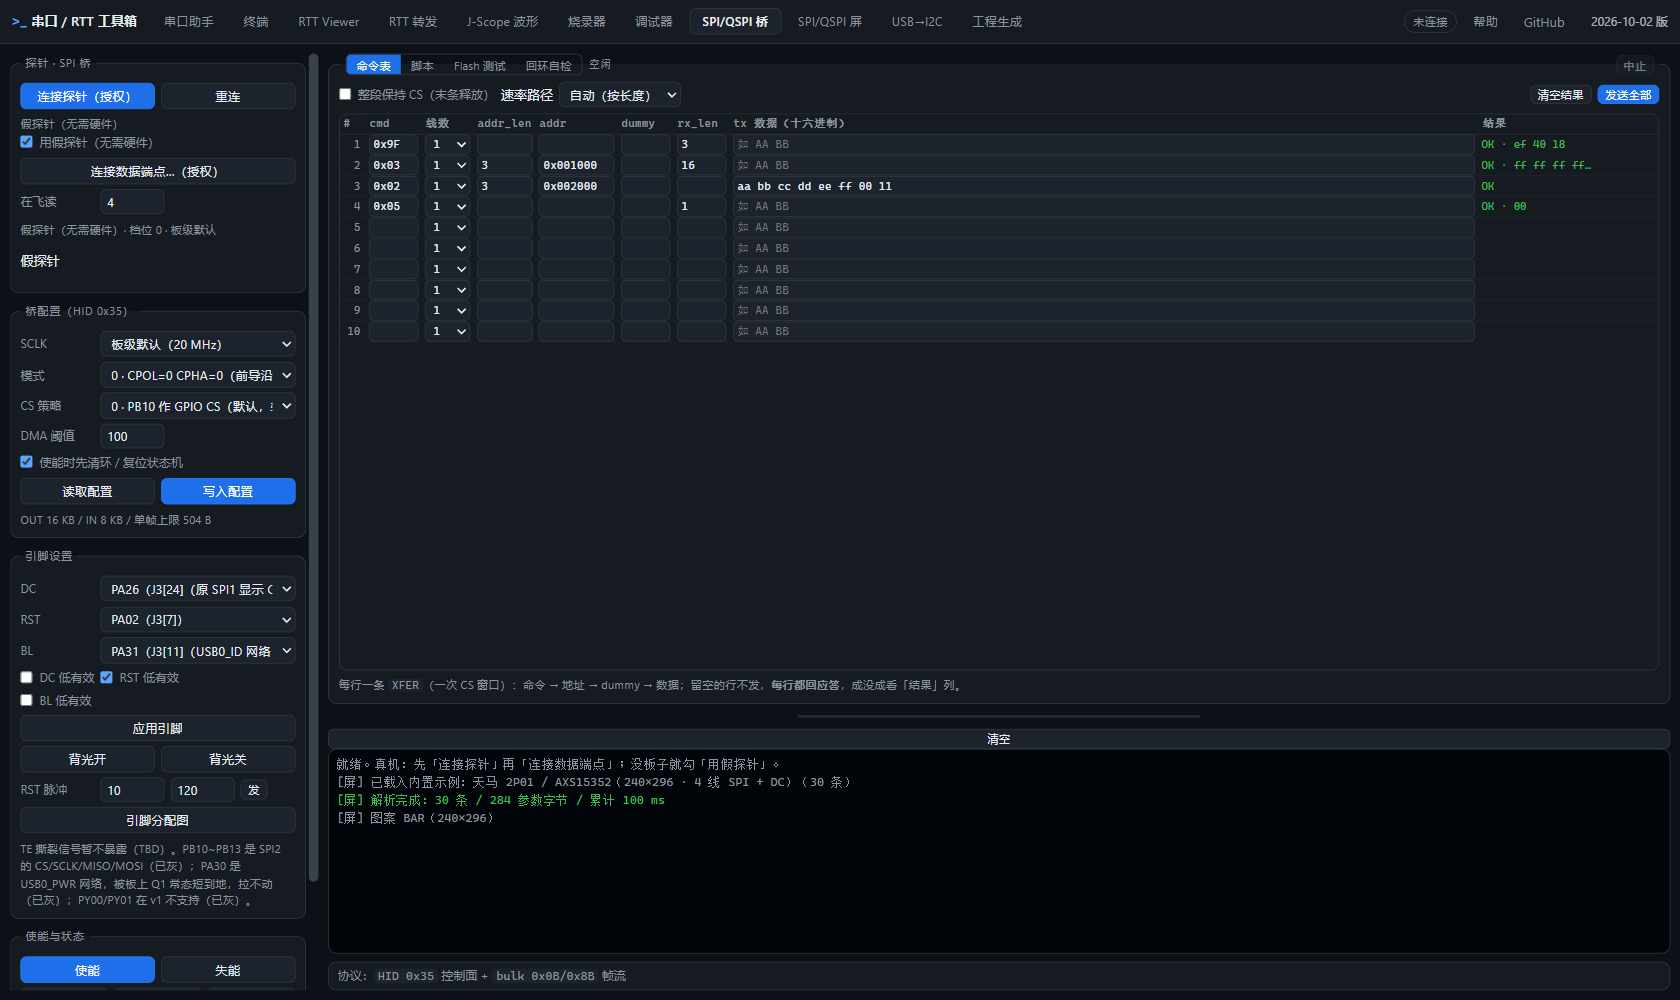
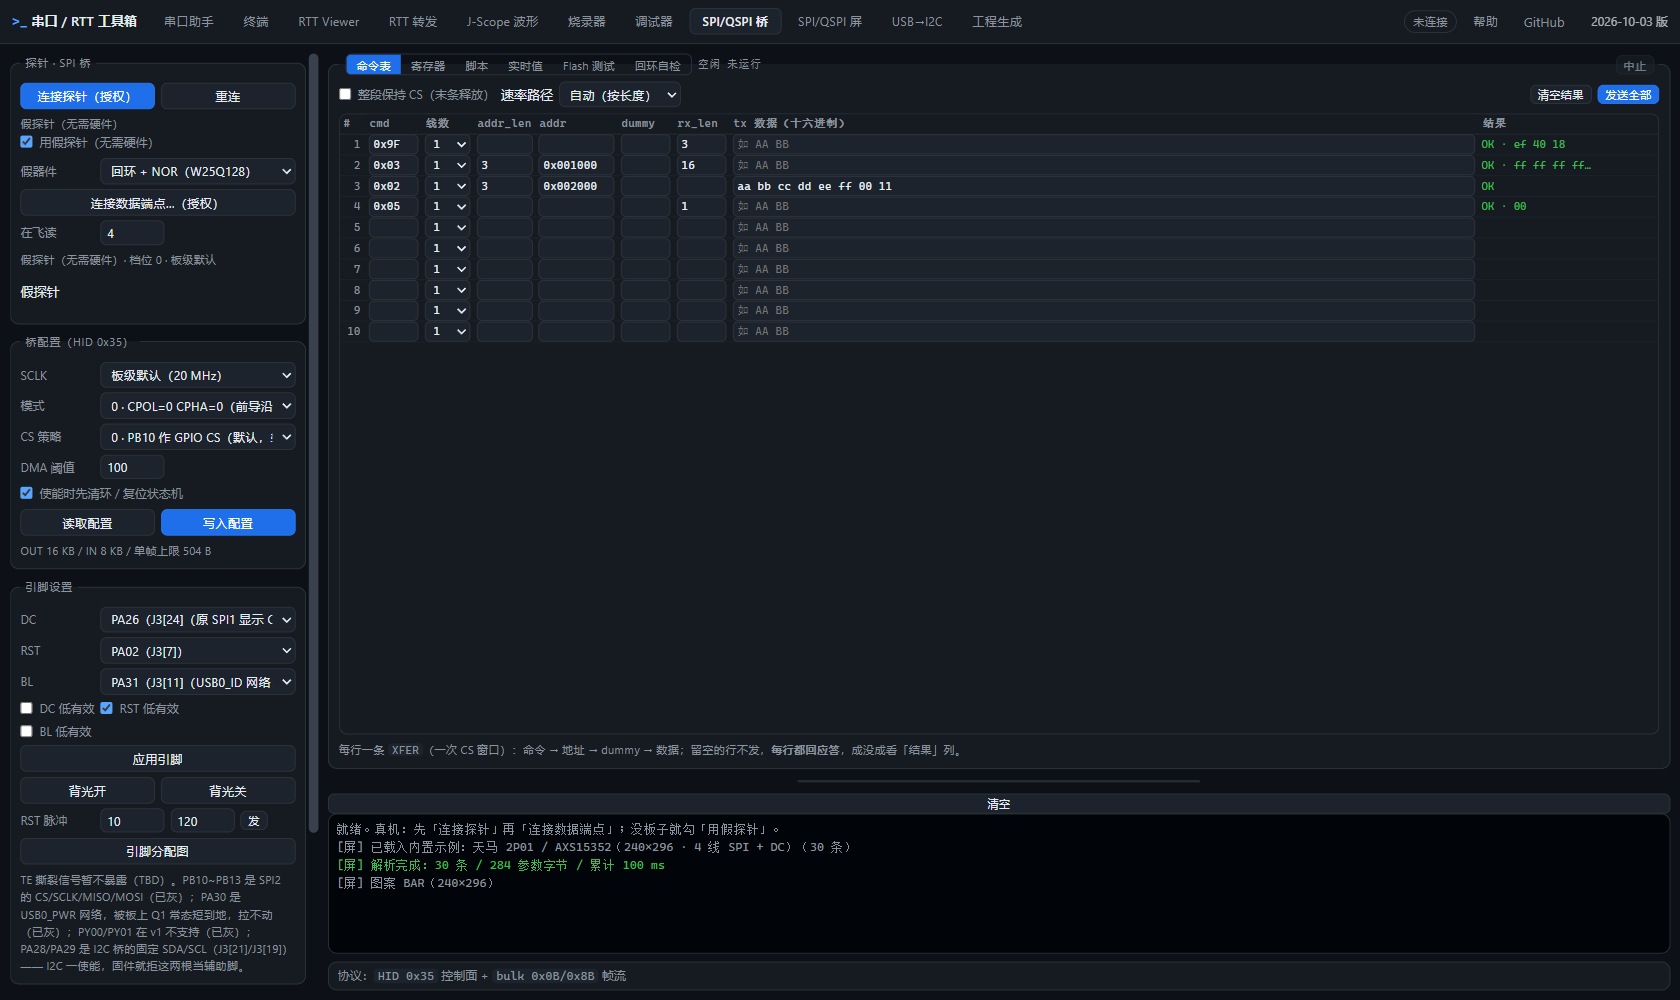
docs(readme): 合并后对齐文档与截图 —— 自测计数按实测刷新、补风景素材条目
合并进来之后把 README 与实测对齐（数字全部是这次在合并后的 main 上真跑出来的）：

- `make test` 21 个纯 Node 套件全绿；CDP：gen-page 81 · i2c-page 145 · spi-bus-page 167 ·
  spi-panel-page 179 · dbg-page 142 · ui.page 19 · scope-page 95
- 表格刷新：test-dbg 307→**321**、test-dbg-page 141→**142**、test-dsl 124→**126**、
  test-i2c/dsl 170/251→**178/265**、test-gen-page 78→**81**；新增 `make test-scenery` **15/15**
- 正文里的旧计数一并对齐：调试器 240→321、dbg-page 140→142、scope 124→127、
  dwarf 65→78、scope-page 88→95、hpm 60→94
- 目录树补：`samples/test_images/scenery/`（16 张风景照片 + manifest）、
  `tools/dev/make-scenery-samples.py`，以及三个新自测文件（i2c-registers / spi-regs / scenery-samples）
- 重拍三张与页面结构不符的截图（右列 tab 数对不上）：`4-gen.png`（三 tab）、
  `15-i2c.png`（五个 tab）、`16-spi.png`（六个 tab）；脚本 tmp/shot-merged-docs.mjs
  收尾会清掉 Emulation 分辨率覆盖（旧脚本不清，用户窗口会一直"分辨率不对"）

diff --git a/README.md b/README.md
@@ -177,21 +177,22 @@ RTT 转发 · J-Scope 波形 · SPI/QSPI 桥 · SPI/QSPI 屏（含**局部刷新
 
 ## 实测状态
 
-### 现在（2026-10-02）
+### 现在（2026-10-03）
 
 **页面自测**（大部分不需要硬件；CDP 类先 `make page-prep` 起 8899 服务 + 9333 浏览器）：
 
 | 套件 | 结果 |
 |---|---|
-| `make test-dbg` 调试器逻辑层（含拿假目标真跑一遍「连接→读寄存器→写内存→下断点→继续→命中→单步→复位」） | **307/307** |
-| `make test-dbg-page` 调试器真页面（CDP + 假目标） | **141/141** |
-| `make test-spi` / `test-read` / `test-dsl` / `test-flash` SPI 桥与屏的逻辑层 | **90 / 54 / 124 / 66** |
+| `make test-dbg` 调试器逻辑层（含拿假目标真跑一遍「连接→读寄存器→写内存→下断点→继续→命中→单步→复位」） | **321/321** |
+| `make test-dbg-page` 调试器真页面（CDP + 假目标） | **142/142** |
+| `make test-spi` / `test-read` / `test-dsl` / `test-flash` SPI 桥与屏的逻辑层 | **90 / 54 / 126 / 66** |
 | `make test-spi-regs` SPI 寄存器面板与定时采集（档位→帧、假器件端到端、loop/as 采集、DSL 语法） | **97** |
 | `make test-spi-page` SPI/QSPI 桥 + 屏 两页真页面（CDP + 假探针） | **167 + 179** |
-| `make test-i2c` / `test-i2c-dsl` / `test-i2c-reg` USB→I2C 逻辑层（协议+假器件 / 命令表与脚本 / 寄存器面板与长写分片） | **170 / 251 / 76** |
+| `make test-i2c` / `test-i2c-dsl` / `test-i2c-reg` USB→I2C 逻辑层（协议+假器件 / 命令表与脚本 / 寄存器面板与长写分片） | **178 / 265 / 76** |
 | `make test-scope` / `test-dwarf` J-Scope 协议 / DWARF 解析 | **127 / 78** |
 | `make test-rtt` / `test-hid` RTT 协议 / akaLinkPro HID 协议 | **45 / 55** |
-| `make test-gen` / `test-gen-page` 工程生成对账（与 Python 工具逐字节）+ 真页面（含三 tab 与左栏联动） | **55 / 78** |
+| `make test-gen` / `test-gen-page` 工程生成对账（与 Python 工具逐字节）+ 真页面（含三 tab 与左栏联动） | **55 / 81** |
+| `make test-scenery` 屏页风景照片素材（结构 + sha256 对账 + 页面解码器真解一遍） | **15/15** |
 | `make test-ui` 整页 UI 步进自测 | **19/19** |
 | `make check` 语法/引用体检 + 上面这些的合集入口 | 全绿 |
 
@@ -722,8 +723,8 @@ rtt-bridge-kit/
 页面上「读计划」那行会直接告诉你当前选择的 span 数与预计上限。
 原理、协议、速率模型、踩坑记录都在 [`docs/scope-page.md`](docs/scope-page.md)。
 
-自测：`make test-scope`（引擎层 124 项，含 8 通道 × 10000 样本逐点对账）+
-`make test-dwarf`（ELF/DWARF 65 项）+ `make test-scope-page`（真页面 CDP 88 项）。
+自测：`make test-scope`（引擎层 127 项，含 8 通道 × 10000 样本逐点对账）+
+`make test-dwarf`（ELF/DWARF 78 项）+ `make test-scope-page`（真页面 CDP 95 项）。
 
 **目标类型（SWD/ARM ↔ RISC-V/JTAG）**：探针的目标类型是**全局且粘性**的（HID `0x31` action 10），
 波形页和 RTT 转发页都能切。页面显示的是**探针回报的生效后端**（DEF 的 `flags bit6` / 状态字 0 的 `bit1`），
@@ -806,10 +807,10 @@ rtt-bridge-kit/
 
 明确**不做**（与"简单"冲突的无底洞）：反汇编、局部变量/表达式求值、**调用栈回溯**、RTOS 感知、
 多核、软件断点、指针跟踪（`*p`）。
-自测：`make test-dbg`（纯 Node，**240 项**：寄存器位域 / FPB 编码 / 行号表 / Thumb BL-BLX 编解码 /
+自测：`make test-dbg`（纯 Node，**321 项**：寄存器位域 / FPB 编码 / 行号表 / Thumb BL-BLX 编解码 /
 断点目标解析 / 结构体树 / 命令解析 + 拿假目标真跑一遍「连接→读寄存器→写内存→下断点→继续→命中→
 源码级单步（跳过/进入/跳出）→运行到光标→复位」，含"`C_STEP` 不生效时自动改走断点单步"）、
-`make test-dbg-page`（CDP 真页面，**140 项**，含结构体树展开/快捷键/双击运行到光标）、
+`make test-dbg-page`（CDP 真页面，**142 项**，含结构体树展开/快捷键/双击运行到光标）、
 `make test-dbg-hw`（真探针冒烟；**前提是探针没被别的浏览器/页签占着**，否则会明确提示无法认领接口）。
 
 ## 支持的调试后端
@@ -838,7 +839,7 @@ HPM 那条路的要点：探针切 SWD+JTAG 输出模式 → `DAP_Connect(JTAG)`
 为什么能"一份 blob 通吃 HPM 全系"：所有 HPM 系列的 ROM API 表地址都是 `0x2001FF00`，
 差异只在运行时参数（`flash_base` / `xpi_base` / `option0/1`）。
 
-自测：`make test-hpm`（60 项，**纯离线**：把真实代码跑在模拟 TAP+DTM+Debug Module+SBA+XPI flash 上，
+自测：`make test-hpm`（94 项，**纯离线**：把真实代码跑在模拟 TAP+DTM+Debug Module+SBA+XPI flash 上，
 包括"擦→写→校验"端到端与 NOR 的按位与语义）；重建算法：`make hpm-algo`。
 设计、证据链、以及**真机 bring-up 的 6 步检查表**见 [`docs/hpm-riscv-flash.md`](docs/hpm-riscv-flash.md)。
 
@@ -876,6 +877,9 @@ bridge/
 tools/
   selftest/             自测：Node 协议测试 / 工程生成对账 / HID 协议 / 页面端到端(CDP) / 桥端到端 / 浏览器真机(CDP) / LA 参考流量
     spi-read.test.mjs   **屏的回读**（读寄存器 / 读 GRAM → 预览 + BMP）：读计划、解码、BMP、假探针 GRAM 往返（`make test-read`）
+    i2c-registers.test.mjs  **I2C 寄存器面板**：128 B 读回的分组/diff/ASCII、长写分片（页写回卷与 tWR 用假 EEPROM 钉死；`make test-i2c-reg`）
+    spi-regs.test.mjs   **SPI 寄存器面板与定时采集**：器件档位（读/写 opcode、地址相位、dummy、自增、MB）→ 帧、假器件端到端、`loop`/`as` 采集（`make test-spi-regs`）
+    scenery-samples.test.mjs  屏页**风景照片素材**：目录结构 + manifest 的 sha256 逐个对账 + 页面 parseBMP 真解一遍（`make test-scenery`）
     dbg-core.test.mjs   **调试器页的逻辑层**：寄存器位域 / FPB 断点编码 / 命令解析 / 符号表 + 拿假目标真跑一遍调试动作（`make test-dbg`）
     dbg-page.test.mjs   **调试器页的真页面自测**（CDP + 页面里的假目标，不需要硬件；`make test-dbg-page`）
     hw-campaign.mjs     **真机场景验收**（烧录+Viewer+转发+10s存盘+J-Scope+交替烧录计时，带判决，`make hw-campaign`）
@@ -888,7 +892,9 @@ tools/
   la/                   逻辑分析仪：kingst_la.py（KingstVIS Socket API 单文件工具）+ SWD 流量发生器
   dev/                  extract-algo.py（从 pyOCD 抽 flash 算法，别手抄 base64）、help.ps1、
                         make-40pin-figure.mjs（生成 README 开头那张 **J3 40pin 引脚定义图**）、
-                        make-anim-samples.py（造屏页动画/视频示例素材，`make samples-anim`）
+                        make-anim-samples.py（造屏页动画/视频示例素材，`make samples-anim`）、
+                        make-scenery-samples.py（造风景照片素材：Commons 原图 → 裁剪/缩放到两套
+                        屏几何，写 manifest 与署名表，`make samples-scenery`）
   target-firmware/          **靶子固件总索引见 tools/target-firmware/README.md**；
                             每个目录根上的 `fw.elf` 是**编好的产物（入库）**，用户不必装工具链
     stm32f103/          STM32F103 测试固件（UART + RTT，含 SEGGER RTT 源码）
@@ -923,6 +929,10 @@ samples/
   test_images/          **BMP 测试图样**：37 张一套，`./` 是 24bpp、`bpp16/` 是**同名同尺寸的
                         16bpp(RGB565)** 对照（各留一张异格式当反例）；240×296 为主，另有
                         16×16 / 41×20 / 64×64 / 120×40 边界；见 samples/test_images/README.md
+    scenery/            **风景照片素材**（刷屏看画质用）：4 类（花朵绿树 / 人像 / 蓝天白云 / 大海）
+                        × 2 张 × 两套几何（axs15352 = 240×296、st77916 = 360×360）= 16 个 24bpp
+                        BMP；`manifest.json` 记作者 / 许可 / 来源页 / sha256，`make samples-scenery`
+                        重造、`make test-scenery` 守结构；见 samples/test_images/scenery/README.md
 ```
 
 ## 自测（不需要硬件也能跑一部分）
